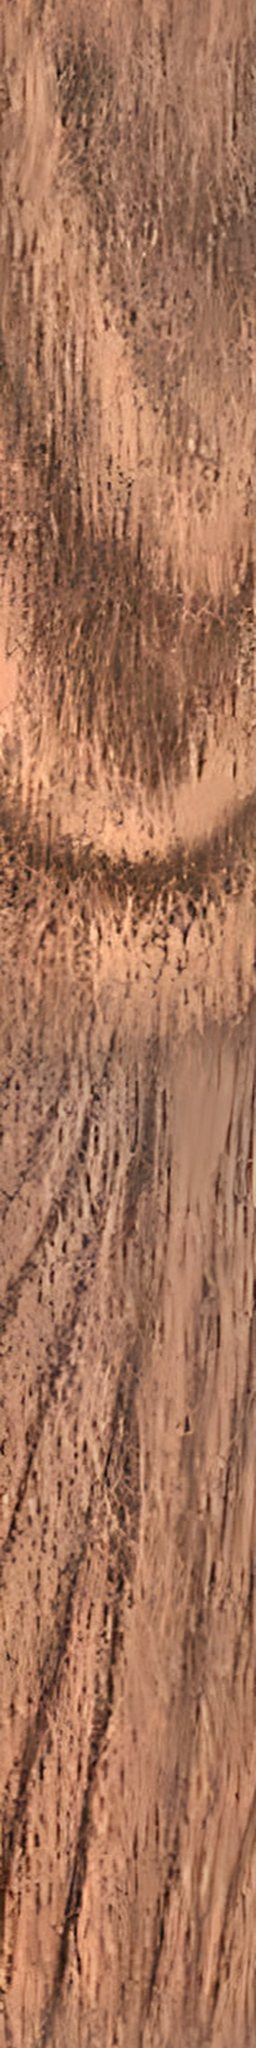
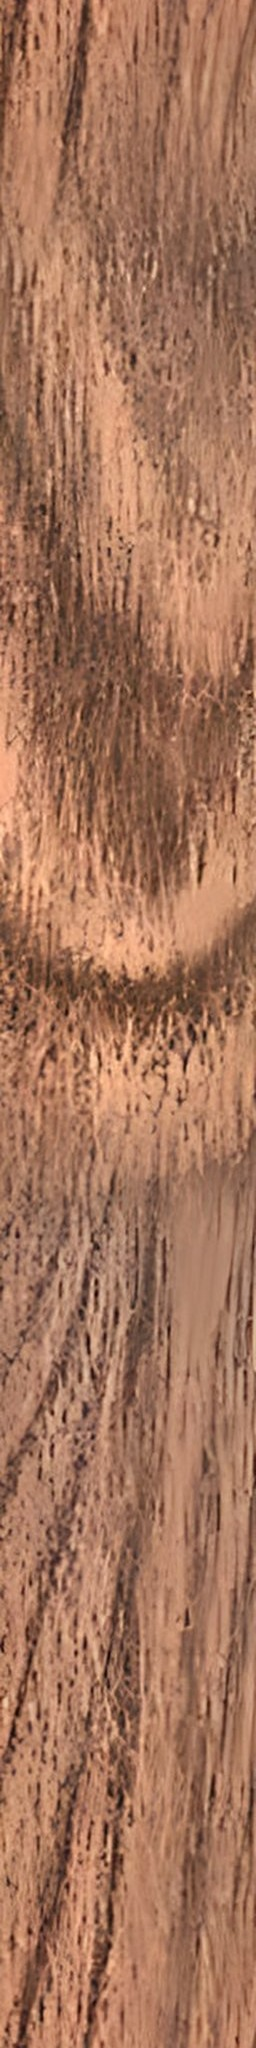
Декор 2-10: полоска без зеркального повтора (бесшовная, tile=repeat) — в крупном плане зеркало давало «глазки»; черновики
Claude-Session: https://claude.ai/code/session_01WYD11AvkmgMEHWWFRLVb2R

diff --git a/scene.py b/scene.py
@@ -1093,7 +1093,8 @@ def mat_decor_strip(decor):
     tc = nt.nodes.new('ShaderNodeTexCoord')
     n = nt.nodes.new('ShaderNodeTexImage')
     n.image = load_img(f'{ROOT}/tex3/{decor.lower()}.jpg')
-    n.extension = 'MIRROR'
+    # короткая полоска повторяется зеркально; у декора с арками волокна (2-10) зеркало даёт «глазки» — у него в index.json tile=repeat (полоска сделана бесшовной)
+    n.extension = 'REPEAT' if json.load(open(f'{ROOT}/tex3/index.json')).get(decor.lower(), {}).get('tile') == 'repeat' else 'MIRROR'
     nt.links.new(tc.outputs['UV'], n.inputs['Vector'])
     uv2 = nt.nodes.new('ShaderNodeUVMap')
     uv2.uv_map = 'jit'
